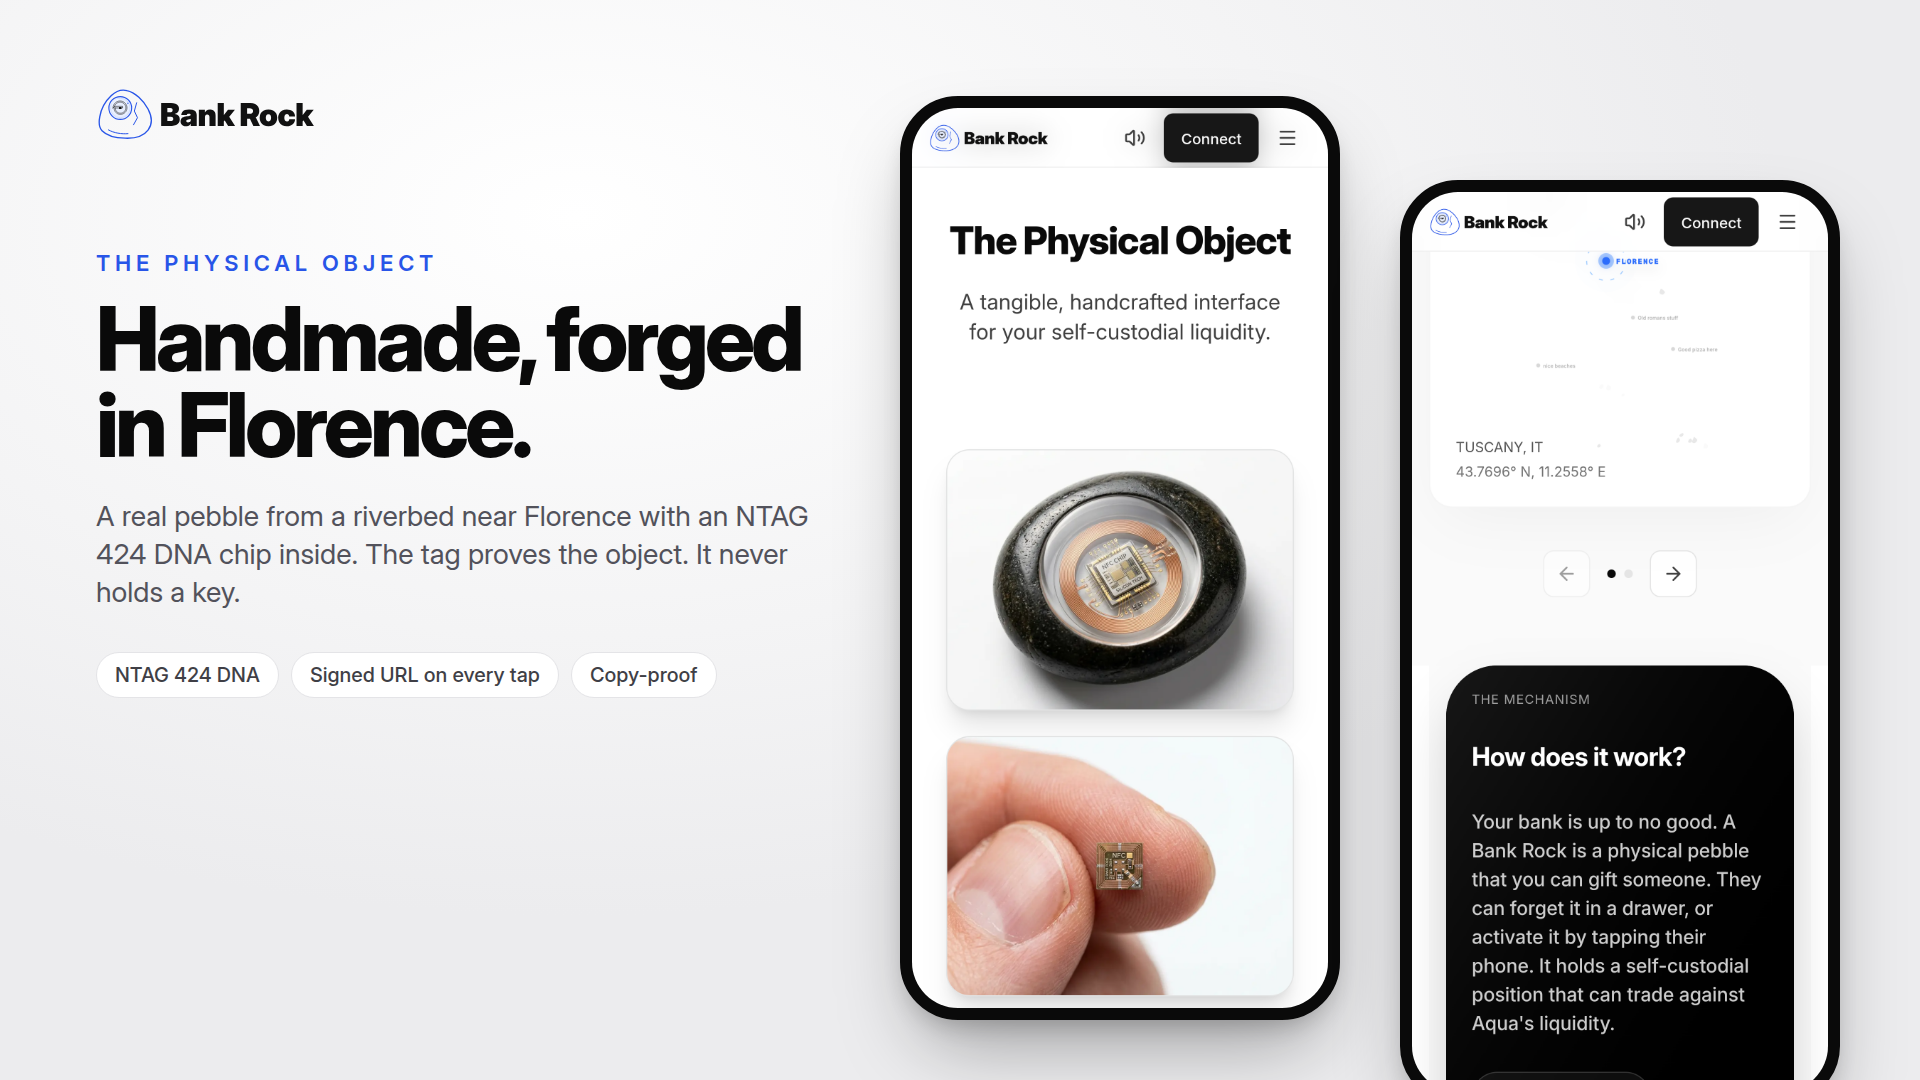
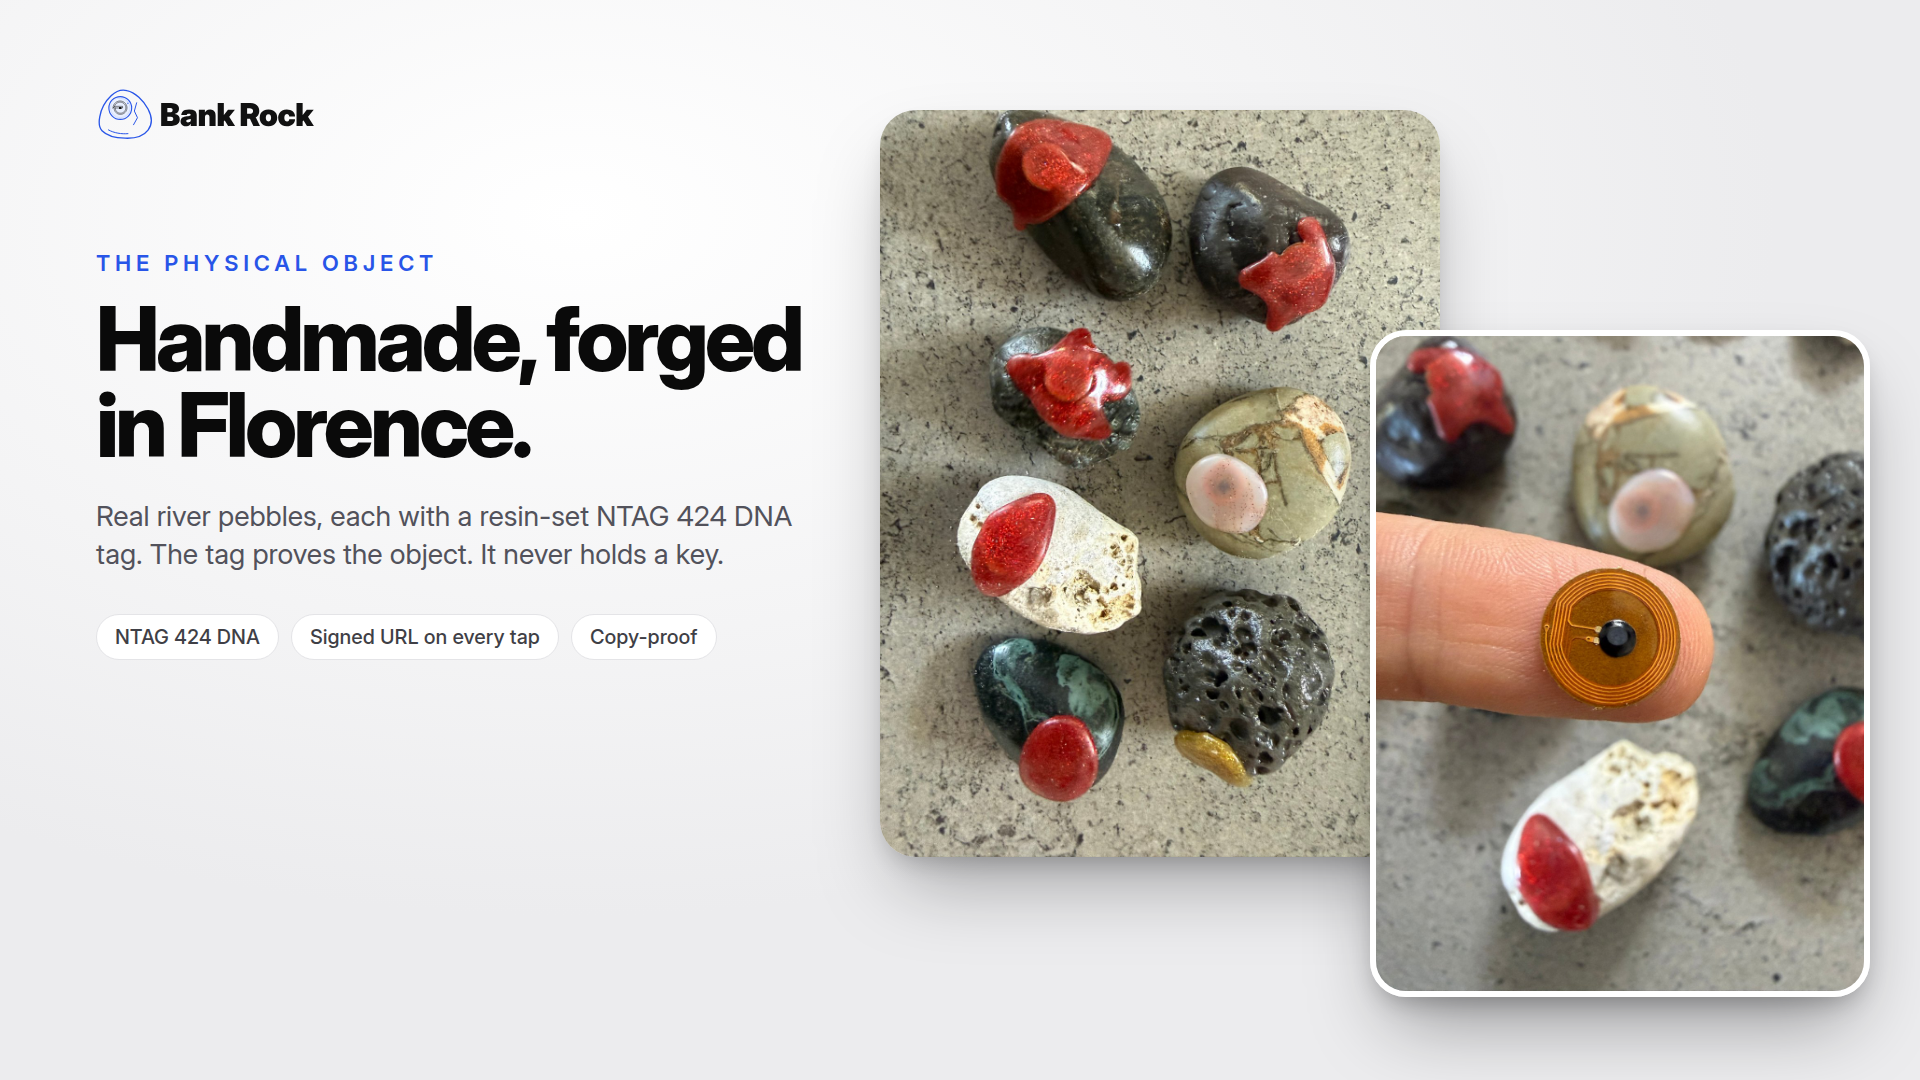
web(learn): real photos of the rocks and the NFC tag replace the two generated ones
photo_rock_family.jpg (seven handmade rocks) and photo_nfc_tag_on_finger.jpg (the bare tag on a
fingertip) are Luca's own photographs, resized to 1200x1600 for the web. photo_rock_silicon_nfc.jpg
and photo_finger_nfc.jpg were generated images and looked it; both are removed and the learn page's
alt text now describes what is actually shown.

The submission slide 'Handmade, forged in Florence' is re-rendered from the real photos, and the
phone capture of the old learn page is dropped from docs/submission (recapture after deploy).

Claude-Session: https://claude.ai/code/session_014KFdP5P2JK5wN16NyFiv5J

diff --git a/docs/submission/compose.js b/docs/submission/compose.js
@@ -52,12 +52,27 @@ function slide({ eyebrow, title, sub, left, right, chips = [] }) {
 </div>`;
 }
 
+
+function photoSlide({ eyebrow, title, sub, big, small, chips = [] }) {
+  return `<style>${css}</style><div class="page"><div class="bg"></div>
+  <div style="position:absolute; left:96px; top:88px; width:720px;">
+    <img class="logo" src="${A('logo.svg')}" style="height:52px; width:auto;">
+    <div class="eyebrow" style="margin-top:110px;">${eyebrow}</div>
+    <h1 style="font-size:88px; margin-top:20px;">${title}</h1>
+    <div class="sub" style="font-size:28px; margin-top:30px;">${sub}</div>
+    <div class="chips" style="margin-top:40px;">${chips.map(c => `<span class="chip">${c}</span>`).join('')}</div>
+  </div>
+  <div style="position:absolute; left:880px; top:110px; width:560px; height:747px; border-radius:36px; overflow:hidden; box-shadow:0 40px 80px -20px rgba(0,0,0,.35), 0 12px 24px -8px rgba(0,0,0,.2);"><img src="${A(big)}" style="width:100%; height:100%; object-fit:cover;"></div>
+  <div style="position:absolute; left:1370px; top:330px; width:500px; height:667px; border-radius:36px; overflow:hidden; box-shadow:0 40px 80px -20px rgba(0,0,0,.4), 0 12px 24px -8px rgba(0,0,0,.25); border:6px solid #fff;"><img src="${A(small)}" style="width:100%; height:100%; object-fit:cover;"></div>
+</div>`;
+}
+
 const pages = {
   'cover-1920x1080': cover(),
   'slide-1-tap': slide({ eyebrow: 'Tap the rock', title: 'A rock with its own account.', sub: 'Tap it with a phone. Anyone can see what it holds, which streams it runs and who owned it. Sign in with Privy, no seed phrase.', left: 'h-phone-reduced', right: 'p02-rock3-liquidity', chips: ['Privy embedded wallet', 'Safe smart account', 'Gas sponsored'] }),
   'slide-2-onchain': slide({ eyebrow: 'Provenance', title: 'Every tap, gift and trade is on chain.', sub: 'Awakened, gifted, claimed by a physical tap, retired. Read back from Sepolia Etherscan. The registry holds no tokens, ever.', left: 'r1-provenance-2', right: 'p05-rock3-contracts', chips: ['BankRockRegistry', '1inch Aqua', 'Ethereum Sepolia'] }),
   'slide-3-agent': slide({ eyebrow: 'MCP server', title: 'Ask your rock anything.', sub: 'Connect Claude or Cursor to a rock. The agent reads live chain state and never invents a number. Read-only by design.', left: 'p11-mcp', right: 'p10-learn-security', chips: ['Model Context Protocol', 'Read-only tools', 'Self-custody first'] }),
-  'slide-4-object': slide({ eyebrow: 'The physical object', title: 'Handmade, forged in Florence.', sub: 'A real pebble from a riverbed near Florence with an NTAG 424 DNA chip inside. The tag proves the object. It never holds a key.', left: 'p08-learn-rock', right: 's-how-it-works', chips: ['NTAG 424 DNA', 'Signed URL on every tap', 'Copy-proof'] }),
+  'slide-4-object': photoSlide({ eyebrow: 'The physical object', title: 'Handmade, forged in Florence.', sub: 'Real river pebbles, each with a resin-set NTAG 424 DNA tag. The tag proves the object. It never holds a key.', big: 'photo_rock_family.jpg', small: 'photo_nfc_tag_on_finger.jpg', chips: ['NTAG 424 DNA', 'Signed URL on every tap', 'Copy-proof'] }),
 };
 
 (async () => {

diff --git a/web/src/app/learn/rock/page.tsx b/web/src/app/learn/rock/page.tsx
@@ -41,10 +41,10 @@ export default function RockPage() {
 
           <div className="order-1 md:order-2 flex flex-col gap-6">
             <div className="w-full max-w-md aspect-[4/3] mx-auto bg-ink-4/10 rounded-3xl flex items-center justify-center relative overflow-hidden border border-black/5 shadow-xl">
-              <Image src="/infographics/photo_rock_silicon_nfc.jpg" alt="Rock with Silicon and NFC tag" fill className="object-cover" />
+              <Image src="/infographics/photo_rock_family.jpg" alt="Seven handmade Bank Rocks: river pebbles, each with a coloured resin cap over its NFC tag" fill className="object-cover" />
             </div>
             <div className="w-full max-w-md aspect-[4/3] mx-auto bg-ink-4/10 rounded-3xl flex items-center justify-center relative overflow-hidden border border-black/5 shadow-xl">
-              <Image src="/infographics/photo_finger_nfc.jpg" alt="Finger holding tiny NFC chip for size reference" fill className="object-cover" />
+              <Image src="/infographics/photo_nfc_tag_on_finger.jpg" alt="The bare NFC tag, antenna coil and chip, on a fingertip for scale" fill className="object-cover" />
             </div>
           </div>
         </section>
